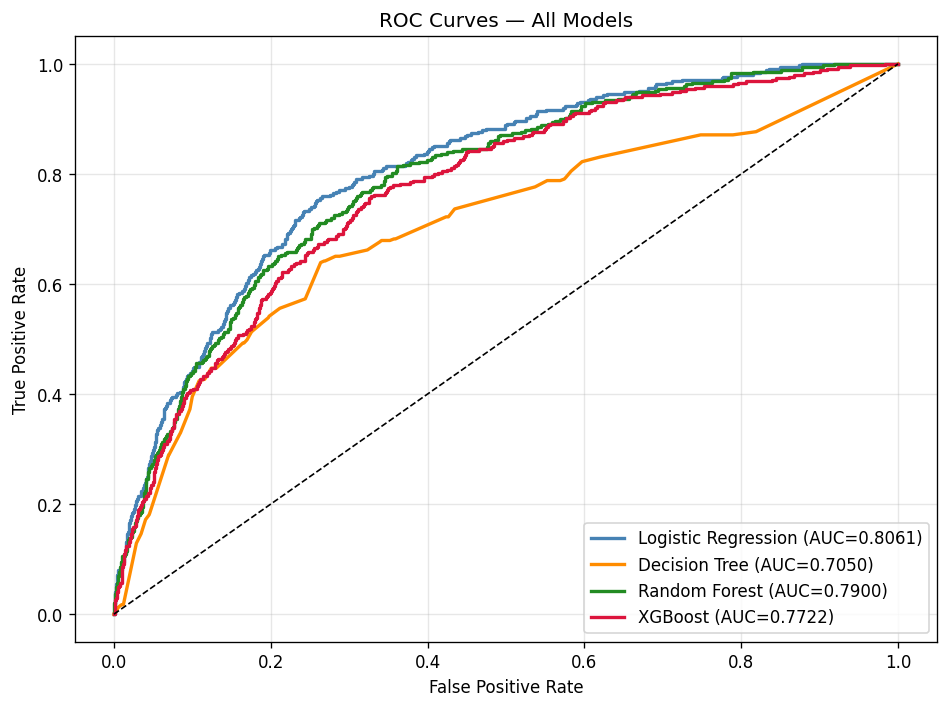
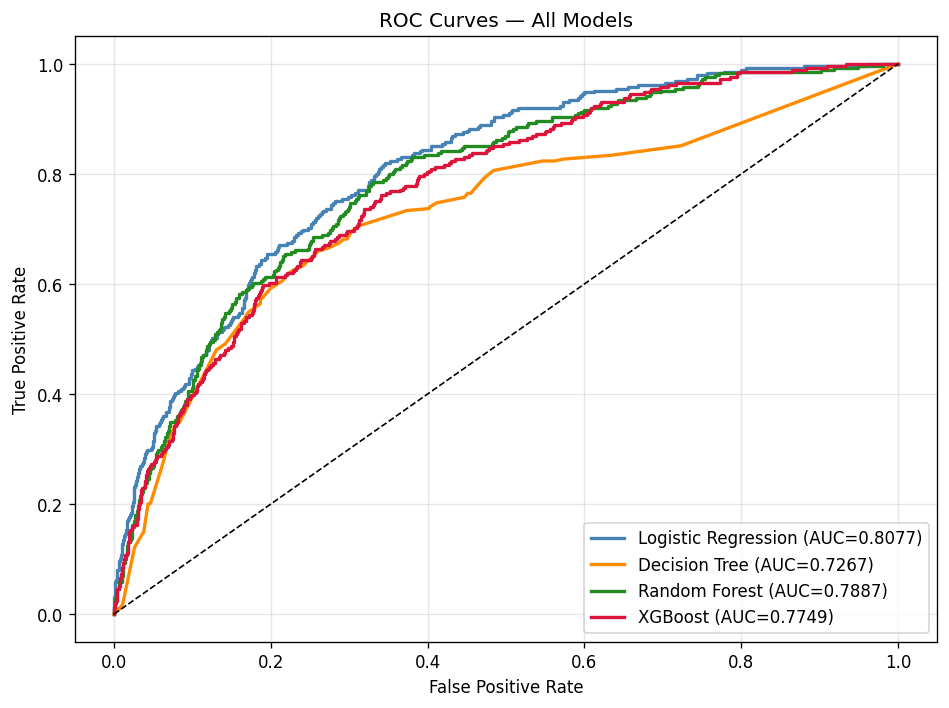
backend/ml:train_model.py changed

diff --git a/backend/ml/train_model.py b/backend/ml/train_model.py
@@ -92,17 +92,17 @@ print(f"   Avg LTI in dataset: {lti.mean():.3f}  |  Median: {np.median(lti):.3f}
 # )
 
 log_odds = (
-    -3.0                              # raise intercept significantly
+    -2.0                              # raise intercept significantly
     + 0.015  * (age - 40)
     - 0.002  * (income / 10000)
     + 2.5    * dti.clip(0, 2)        # DTI now 0.1–0.6, needs stronger weight
     + 0.8    * lti.clip(0, 5)        # LTI now 0.5–5.0, keep moderate
-    - 4.0    * ext_mean
-    - 0.06   * employment_yrs
+    - 6.0    * ext_mean
+    - 0.08   * employment_yrs
     + 0.10   * (family_members > 4).astype(float)
     + np.where(education == 'Lower secondary', 0.3, 0)
     + np.where(income_type == 'Pensioner', 0.2, 0)
-    + np.random.normal(0, 0.3, N)
+    + np.random.normal(0, 0.2, N)
 )
 
 prob_default = 1 / (1 + np.exp(-log_odds))
